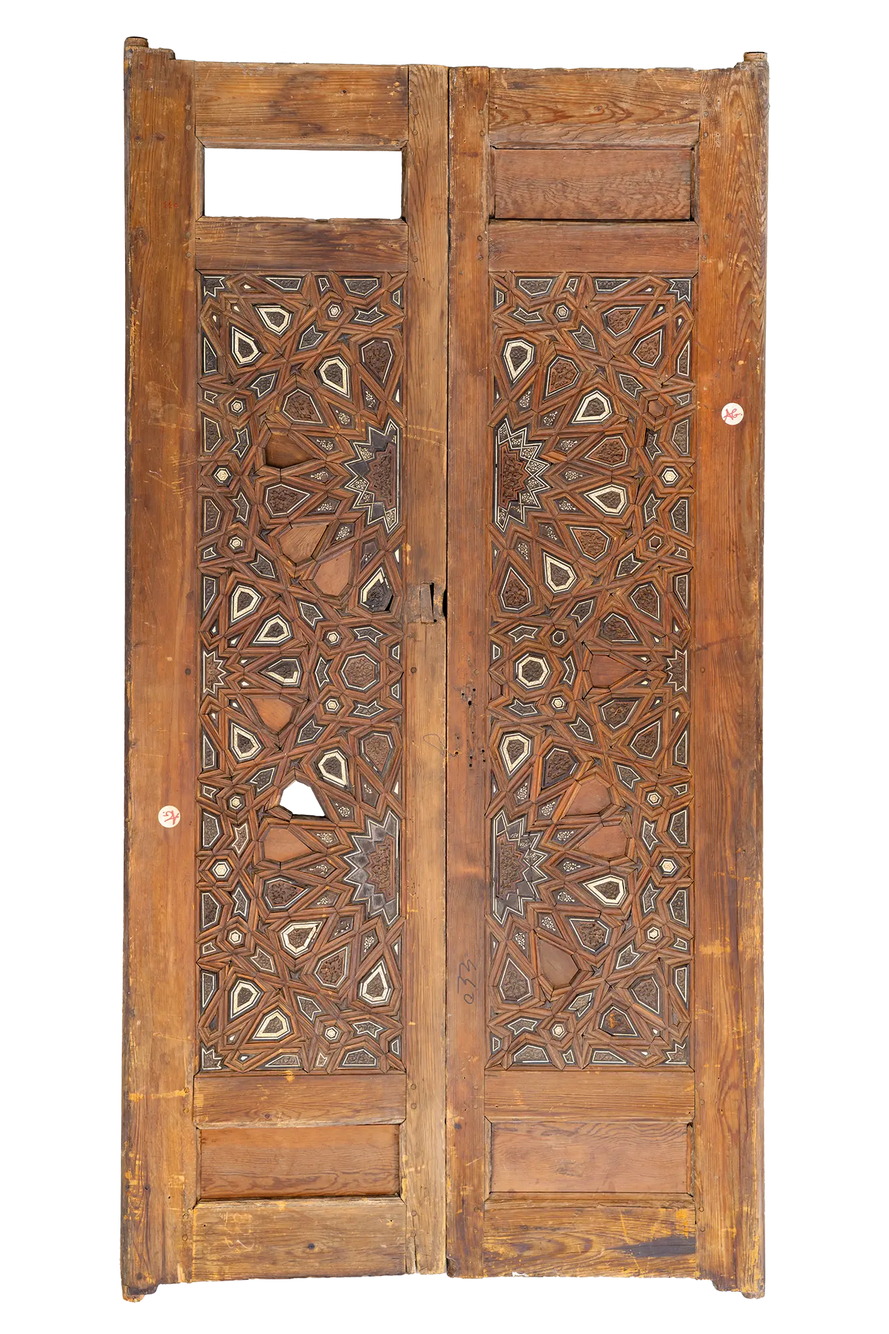
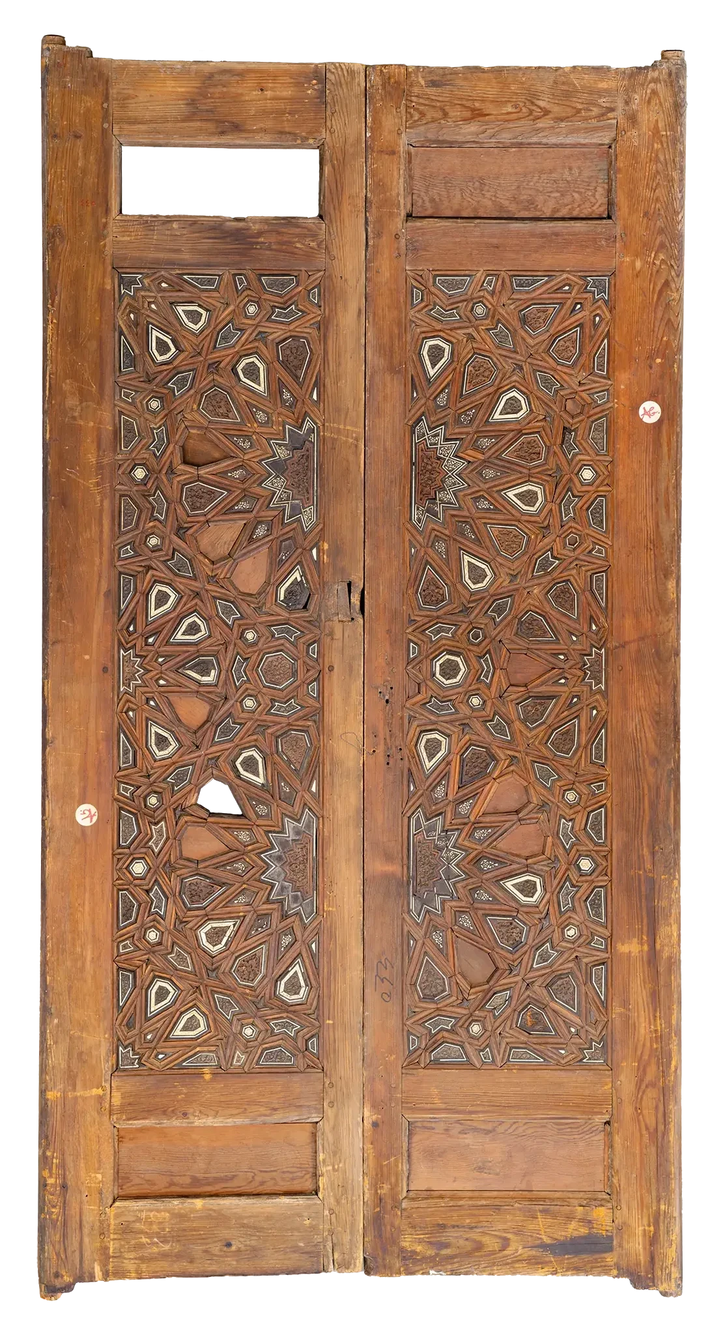
Front/back pairs centred vertically; 58a and 44a: removed only empty transparent space so the object matches its front's size

diff --git a/c.html b/c.html
@@ -459,7 +459,7 @@
         }
 
         .image-pair-container { margin: 30px 0; width: 100%; text-align: center; display: block; }
-        .image-pair-wrapper { display: flex; gap: 20px; justify-content: center; align-items: flex-start; flex-wrap: wrap; width: 100%; }
+        .image-pair-wrapper { display: flex; gap: 20px; justify-content: center; align-items: center; flex-wrap: wrap; width: 100%; }
         
         .image-pair-wrapper img { 
             width: auto; max-width: 100%; height: auto; max-height: 65vh; object-fit: contain; 
@@ -575,7 +575,7 @@
             border-radius: 4px; transition: opacity 0.4s ease; 
         }
         body.dark .viewer img { box-shadow: none; border: none; }
-        .viewer.has-double { max-height: none; gap: 20px; flex-wrap: wrap; align-items: flex-start; }
+        .viewer.has-double { max-height: none; gap: 20px; flex-wrap: wrap; align-items: center; }
         /* الوش دايمًا على الشمال والظهر على اليمين، حتى في العربي */
         .viewer.has-double, .image-pair-wrapper { direction: ltr; }
         @media (min-width: 600px) { .viewer.has-double img { max-width: calc(50% - 10px); } }

diff --git a/scan-b.html b/scan-b.html
@@ -459,7 +459,7 @@
         }
 
         .image-pair-container { margin: 30px 0; width: 100%; text-align: center; display: block; }
-        .image-pair-wrapper { display: flex; gap: 20px; justify-content: center; align-items: flex-start; flex-wrap: wrap; width: 100%; }
+        .image-pair-wrapper { display: flex; gap: 20px; justify-content: center; align-items: center; flex-wrap: wrap; width: 100%; }
         
         .image-pair-wrapper img { 
             width: auto; max-width: 100%; height: auto; max-height: 65vh; object-fit: contain; 
@@ -575,7 +575,7 @@
             border-radius: 4px; transition: opacity 0.4s ease; 
         }
         body.dark .viewer img { box-shadow: none; border: none; }
-        .viewer.has-double { max-height: none; gap: 20px; flex-wrap: wrap; align-items: flex-start; }
+        .viewer.has-double { max-height: none; gap: 20px; flex-wrap: wrap; align-items: center; }
         /* الوش دايمًا على الشمال والظهر على اليمين، حتى في العربي */
         .viewer.has-double, .image-pair-wrapper { direction: ltr; }
         @media (min-width: 600px) { .viewer.has-double img { max-width: calc(50% - 10px); } }
